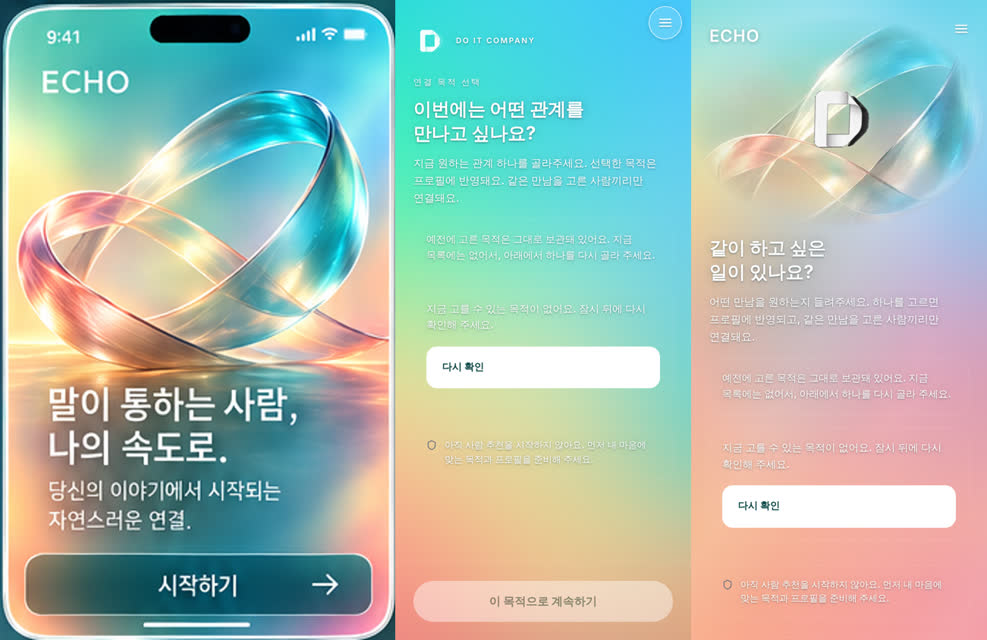
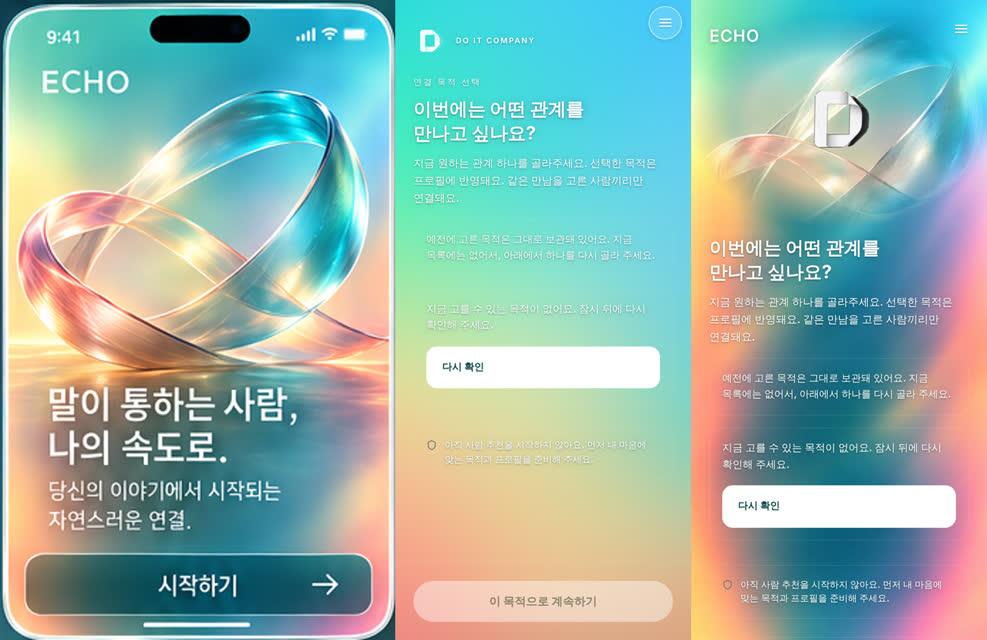
parity: 바탕 빛 막 삭제(#131 승인 바탕 그림을 덮던 결함) · 판 58%/버튼 60%(바탕 그림 가장 밝은 점 위 4.73:1) · #131 최신 합침
- Codex 5993339944: visual-parity 의 ::after 빛 막이 #131 pastel-bg.css 의 바탕 그림을 덮어 지움 → 삭제(바탕은 #131 단독)
- 새 바탕 그림의 가장 밝은 점 rgb(247 253 183) 위에서 52% 판은 3.90:1 → 58% 로 4.73:1. 검사가 그림 지문(sha256)까지 확인해 그림이 바뀌면 다시 재게 함(52% 로 되돌리면 실패 확인)
- #131 30832b4 합침: 바탕 그림 · KEY 알약(윗줄) · 검사 산출물 추적 해제(ux-build 묵은 묶음 문제 같이 해소)
- 대응표 · 비교 그림 갱신(360·390·430, 대화·정정·시작 모두 한 화면 안 · 화면 오류 0)
- 검사(로컬·가짜 서버) 1271 통과 · 0 실패 · todo 5 · type-check·lint 0

Claude-Session: https://claude.ai/code/session_01LrNq9P5Z9SNALpofurNauX

Changed region(s): [[0.6991, 0.0, 1.0, 1.0]]

diff --git a/product/src/doit/components/feature/visual-parity.css b/product/src/doit/components/feature/visual-parity.css
@@ -4,13 +4,14 @@
    :root:root 를 앞에 붙인 것은 mobile-polish.css(:root …)보다 한 단계 세게 하려는 것(불러오는 순서와 무관).
    바꾸는 것 = 생김새만: 판 색·투명도·흐림 · 겹친 판 걷어 내기 · 버튼 높이·정렬 · 맨 위 메뉴 · 여백. 글·버튼 뜻·서버·흐름 0.
    - 유리: 짙은 청록 판(청록 62%) → 뒤 무지개빛이 비치는 연기빛 유리(먹색 rgb(8 22 28) 52%) + 흐림 18px.
-     대비(계산값): 파스텔 바탕 60색 중 가장 밝은 곳 위에서도 흰 글자 4.66:1 이상(WCAG AA 4.5:1) · 버튼 56% = 5.24:1 · 말풍선 54% = 4.94:1.
+     대비(계산값): 바탕 그림(public/doit/bg/echo-mobile-bg.webp)의 가장 밝은 점 rgb(247 253 183) 위에서도 흰 글자 4.73:1 이상(판 58%) · 버튼 60% 5.05:1.
+     파스텔 대체 바탕(pastel-bg.css 색) 위에서는 그보다 높다.
      (처음 쓴 청록 42% 는 3.04:1 로 미달 — Codex P2 지적으로 바꿈) */
 
 :root:root :is(.doit-app-pastel,.echo-dialogue.echo-dialogue--pastel){
-  --echo-glass:rgb(8 22 28/.52);
-  --echo-glass-soft:rgb(8 22 28/.54);
-  --echo-glass-btn:rgb(8 22 28/.56);
+  --echo-glass:rgb(8 22 28/.58);
+  --echo-glass-soft:rgb(8 22 28/.58);
+  --echo-glass-btn:rgb(8 22 28/.6);
   --echo-glass-line:rgb(255 255 255/.42);
   --echo-glass-blur:blur(18px) saturate(1.35);
 }
@@ -90,18 +91,7 @@
 :root:root .echo-dialogue.echo-chat .echo-chat-log .echo-question-card.echo-bubble--echo::before{left:-42px;top:0;width:34px;height:34px;box-shadow:0 0 0 3px rgb(255 255 255/.35),0 0 16px rgb(120 240 230/.75)}
 
 
-/* ── 바탕 빛의 흐름(시안 1·5·6번 「빛이 흐르는 무지개빛」): 바탕 색(pastel-bg.css · 실측 LOCK)은 그대로 두고, 그 위 막(::after)에
-   ① 대각선으로 지나가는 옅은 흰 빛 두 줄(최대 12%) ② 가운데 청록 깊이만 더한다. 막은 원래 화면 전환용 어둠(--echo-pastel-veil)도 그대로 맡는다.
-   흰 빛 12% 를 더한 가장 밝은 곳에서도 유리 판 위 흰 글자 4.54:1 이상(검사가 계산). 움직임 줄이기면 빛은 멈춘다. */
-:root:root :is(.echo-dialogue.echo-dialogue--pastel,.doit-app-pastel)::after{
-  background:
-    linear-gradient(118deg,transparent 22%,rgb(255 255 255/.12) 30%,transparent 38%) 0 0/170% 170% no-repeat,
-    linear-gradient(118deg,transparent 52%,rgb(255 255 255/.08) 58%,transparent 64%) 0 0/170% 170% no-repeat,
-    radial-gradient(60% 38% at 38% 46%,rgb(30 150 165/.22),transparent 70%),
-    rgb(9 10 12/var(--echo-pastel-veil));
-  animation:echo-light-flow 16s ease-in-out infinite alternate}
-@keyframes echo-light-flow{from{background-position:0% 0%,0% 0%,0 0,0 0}to{background-position:100% 100%,100% 100%,0 0,0 0}}
-@media(prefers-reduced-motion:reduce){:root:root :is(.echo-dialogue.echo-dialogue--pastel,.doit-app-pastel)::after{animation:none}}
+/* (2026-10-05) 바탕 빛 막(::after)은 지웠다 — 바탕과 바탕 그림은 #131 담당(pastel-bg.css 의 ::after 에 대표 승인 그림). 같은 요소·속성을 두 곳에서 덮지 않는다(Codex 5993339944). */
 
 /* 정정·확인이 390×844 한 화면에 들어오게(시안 4번은 카드 한 장): 칸 이름을 뜻 앞에 같은 줄로(작은 글씨) · 첫 안내는 한 줄 + 링크 */
 :root:root .echo-dialogue.echo-chat .echo-check .echo-profile-list li{display:block!important}

diff --git a/product/docs/design/PARITY_138_20261005.md b/product/docs/design/PARITY_138_20261005.md
@@ -7,8 +7,8 @@
 
 | 기준 패널 | 실제 경로·상태 | 배경·빛 | 판·유리 | 배치 | 문구 | 판정 |
 |---|---|---|---|---|---|---|
-| 1 시작 | `/doit/start-journey` 목적 없음 | 일치(실측 바탕 + 이 PR 빛 흐름) | 목적 타일 = 유리 | 리본·ECHO·제목 왼쪽(기준과 같음) | 일치 | 대체로 일치 |
-| 3 ECHO와 대화 | `/doit/conversation` 진행 중 | 일치 + 대각선 빛 · 가운데 청록 깊이 | 말풍선 = 먹색 유리 52~54% | 뒤로+제목 한 줄 · 내 말 옆 사람 그림 · ECHO 빛 점 · 「+ · 입력칸 · 보내기」 한 줄 | 입력칸 「편하게 적어주세요.」(기존 승인 문구) | 일치 |
+| 1 시작 | `/doit/start-journey` 목적 없음 | 일치(#131 의 대표 승인 바탕 그림) | 목적 타일 = 유리 | 리본·ECHO·제목 왼쪽(기준과 같음) | 일치 | 대체로 일치 |
+| 3 ECHO와 대화 | `/doit/conversation` 진행 중 | 일치(#131 바탕 그림) | 말풍선 = 먹색 유리 52~54% | 뒤로+제목 한 줄 · 내 말 옆 사람 그림 · ECHO 빛 점 · 「+ · 입력칸 · 보내기」 한 줄 | 입력칸 「편하게 적어주세요.」(기존 승인 문구) | 일치 |
 | 4 정정·확인 | `/doit/conversation` 다섯 답 뒤 | 일치 | 카드 한 장 · 바깥 판 0 | 제목(가운데) → 설명 → 카드 → 네 버튼(맞아요 흰 판) | 「이렇게 이해했는데, 맞나요?」 그대로 | 일치 — 360·390·430px 모두 한 화면(844px) 안 |
 | 5 후보 | `/doit/connections` 후보 1 | 일치 | 유리 | **불일치**: 큰 판 안에 이유 글 여러 줄 · 기준은 사진 카드 + 두 버튼 | 「이분의 이야기를 들어볼까요?」 있음(카드 안) | 미완 — 담당 확인 중(아래) |
 | 7 한쪽 대기 | 같은 화면 · 내가 고름 | 일치 | 유리 | **불일치**: 후보 카드가 위에 그대로 · 기준은 두 사람 그림 + 한 버튼 | 「선택을 보냈어요.」 있음 | 미완 — 담당 확인 중 |
@@ -17,8 +17,8 @@
 | 2 가입 · 6 KEY | `/signup` · (KEY 정책 없음) | — | — | 이 PR 캡처 없음 | — | **미검증**(캡처 없음 · KEY 는 서버 정책 없어 실행 비활성 그대로) |
 
 ## 이 PR 이 바꾼 생김새(글·서버·질문 규칙·정정 버튼 뜻 0)
-- 판: 짙은 청록 62% → 먹색 유리 52%(버튼 56% · 말풍선 54%) + 흐림 18px. 파스텔 바탕 모든 색 + 흰 빛 12% 위에서도 흰 글자 4.54:1 이상(`qa/visual-parity-20261005.test.mjs` 가 계산).
-- 바탕 빛: 바탕 색(LOCK)은 그대로, 위 막에 대각선 흰 빛 두 줄 + 가운데 청록 깊이(움직임 줄이기면 멈춤).
+- 판: 짙은 청록 62% → 먹색 유리 58%(버튼 60%) + 흐림 18px. 바탕 그림의 가장 밝은 점 rgb(247 253 183) 위에서도 흰 글자 4.73:1 이상(`qa/visual-parity-20261005.test.mjs` 가 계산 · 그림이 바뀌면 지문으로 알아챔).
+- 바탕: #131 담당(대표 승인 바탕 그림). 이 PR 의 빛 막은 #131 그림을 덮어 지웠던 결함(Codex 5993339944)이라 삭제.
 - 정정·확인 한 장 · 칸 고르기/고치기 제목 가운데 · 고치기 안내는 입력칸 위.
 - 오른쪽 위 메뉴: 동그라미 판 없이 줄 세 개(머리줄 오른쪽 64px 비워 둠).
 - 첫 질문 전 화면: 목적 = 작은 칩, 제목 따로.
@@ -30,3 +30,8 @@
 2. (해결) 정정·확인 화면 넘침 → 칸 이름을 뜻 앞 같은 줄로 · 버튼 사이 여백 정리 → 세 폭 모두 844px 안.
 3. 가입·KEY 화면은 이번 비교 캡처가 없다 → 미검증.
 4. 실기기(아이폰·갤럭시)로 아무도 안 봤다.
+
+## 기준 대비 남은 작은 차이(대화·정정)
+- 글자 크기: 시안은 말풍선·버튼 글이 더 크다(시안 약 20px · 지금 17px). 긴 대화가 화면에 덜 들어가는 것과 맞바꿈이라 그대로 둠.
+- 대화 머리줄의 KEY 알약: 시안에는 있음. KEY 정책·서버가 없어 #131 이 윗줄(TopBar)에만 안내용으로 넣음 — 대화 머리줄은 대표 결정 전 보류.
+- 목적 고르기 전 첫 화면(ConversationOpening)은 시안 6번 「시작하기」가 아니라 2번 「목적」에 대응한다(목적 미선택 상태에서만 나옴 · 필수 목적 순서 유지).
